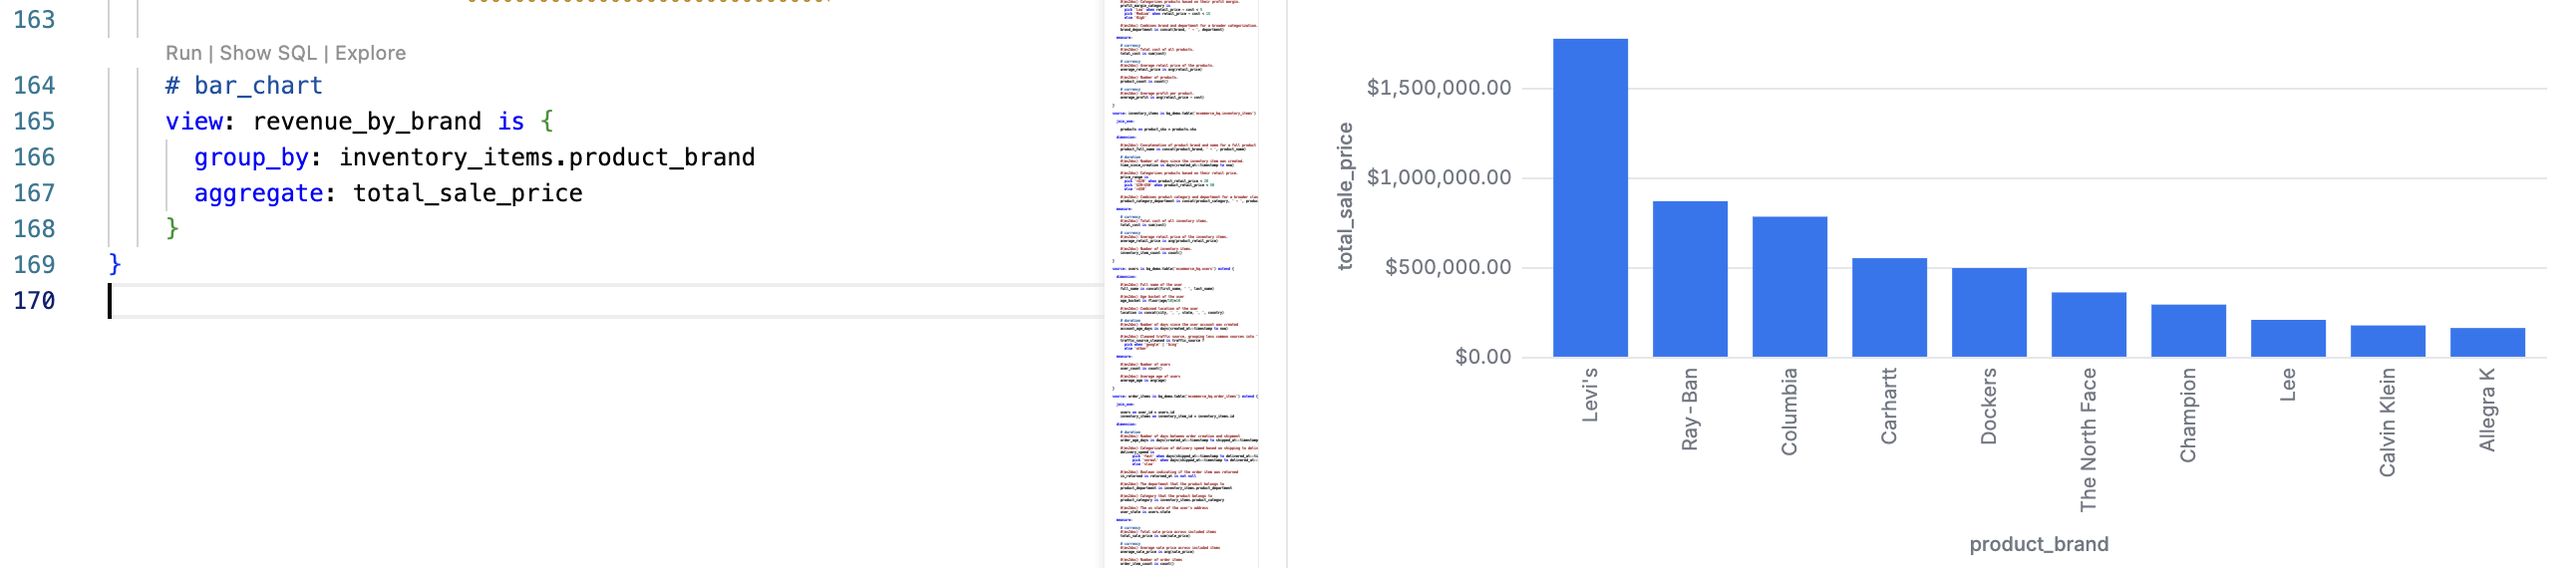
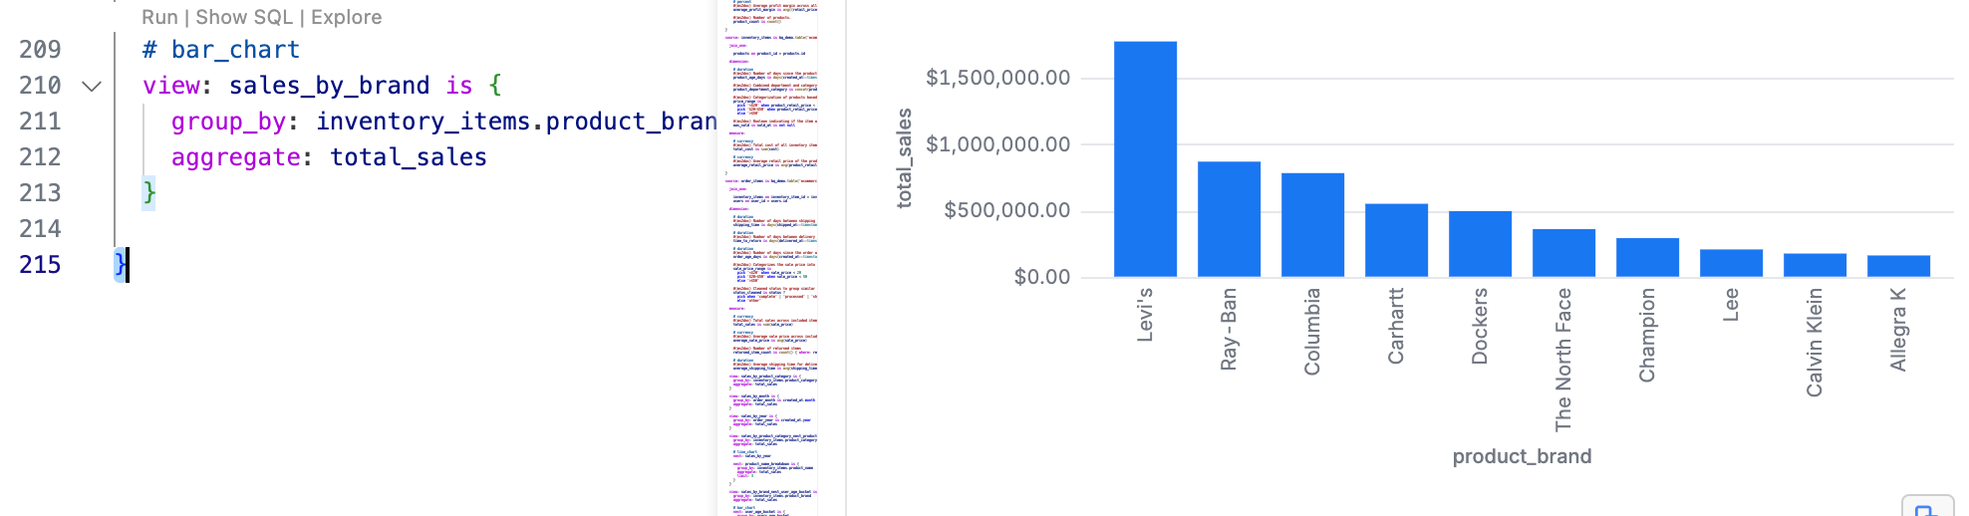
docs: revise and update README.md

diff --git a/README.md b/README.md
@@ -4,11 +4,7 @@ Welcome to **MS2**, your AI-powered, open-source-friendly semantic data platform
 
 At the core of MS2 is [**Malloy**](https://malloydata.dev), an open-source semantic modeling language designed for composability, auditability, and clarity. Malloy models are portable and can run anywhere — and MS2 extends this philosophy with an open, API-driven runtime based on the open-source **Malloy Publisher**. That means no vendor lock-in: you can build locally, host on your own infrastructure, or use our managed service — the choice is yours.
 
-In this Quick Start, you'll follow a familiar and powerful flow: a **data modeler** defines trusted business logic in VS Code using our AI Copilot, and a **data analyst** explores and extends those definitions using Malloy's no-code Explorer query builder. This mirrors the proven modeler → analyst workflow popularized by tools like DBT and Looker — now reimagined for the AI era, and freed from closed systems.
-
-But this is just the beginning.
-
-Once your semantic model is published, the MS2 platform makes it usable everywhere — powering:
+Once a semantic model is published, the MS2 platform makes it usable everywhere, powering a wide range of modern data experiences:
 - **Natural language notebooks** for ad hoc exploration
 - **AI agents** with contextual, trusted data
 - **Embedded data apps** built with our React SDK
@@ -18,21 +14,23 @@ Once your semantic model is published, the MS2 platform makes it usable everywhe
 
 No matter how your team works — in notebooks, apps, dashboards, or chat — MS2 ensures you're always working from the same semantic foundation, built on open standards and ready for the future.
 
+In this Quick Start, we'll focus on a familiar and powerful core workflow: a **data modeler** defines trusted business logic in VS Code using our AI Copilot, and a **data analyst** explores and extends those definitions using Malloy's no-code Explorer query builder. This mirrors the proven modeler → analyst workflow popularized by tools like DBT and Looker — now reimagined for the AI era, and freed from closed systems.
+
 ---
 
 <br>
 
 # Semantic Modeling Workflow
 
-MS2 helps you create, govern, and use semantic models of your business data — quickly and at scale. In this section, you'll:
+MS2 helps you create, govern, and use semantic models of your business data — quickly and at scale. In this section, you'll use MS2's VS Code extension to:
 
-1. Build a semantic model using the MS2 AI Copilot
-2. Analyze data using Malloy notebooks
-3. Publish your models and analyses to the MS2 service
+1. **Build a semantic model** using the MS2 AI Copilot
+2. **Create a view** to validate and iterate on your model
+3. **Publish your work** to the MS2 service for broader use
 
-## Step 1: Build a Semantic Model with AI Copilot
+## Step 0: Get Set Up
 
-At the core of MS2 is the **semantic model**—a governed, versioned interface that defines how your data should be understood and used. Think of it as a **semantic API**: it captures not just structure, but business meaning. You'll use the **MS2 AI Copilot in VS Code** to generate your first model using existing catalog metadata, query logs, and the structure of your data warehouse.
+Before you can build a semantic model, you'll need to set up your environment.
 
 #### Prerequisites
 
@@ -75,6 +73,10 @@ In the `ms2-quick-start` project, you can see you have access to a "bq_demo" con
 
 You can read about organizations > projects > packages structures in the [MS2 Portal Getting Started Guide →](docs/portal.md)
 
+## Step 1: Build a Semantic Model with the MS2 AI Copilot
+
+At the core of MS2 is the **semantic model**—a governed, versioned interface that defines how your data should be understood and used. Think of it as a **semantic API**: it captures not just structure, but business meaning. You'll use the **MS2 AI Copilot in VS Code** to generate your first model using existing catalog metadata, query logs, and the structure of your data warehouse.
+
 #### Generate Your Semantic Model
 
 1. In the file view within the `ecommerce` folder, create a new file: `ecommerce.malloy` (files that end in `.malloy` are Malloy model files)
@@ -83,34 +85,45 @@ You can read about organizations > projects > packages structures in the [MS2 Po
 
 The ecommerce data set has four tables -- `orders_items`, `users`, `products`, and `inventory_items`.  You should see Malloy sources for each of these tables.  The `orders_items` table should have join relationship to the `users` and `inventory_items` tables.  And the `inventory_items` table should have a join relationship to the `products` table.
 
-Each source show have as set of dimensions and measures defined -- and annotations describing the different entities and type information (e.g., currency, percent, duration).  For more information on how Malloy dimensions, measures, joins, views, etc. work, see the [Malloy documentation →](https://malloydata.dev/documentation)
+Each source should have a set of dimensions and measures defined, along with annotations that describe the different entities and type information (e.g., currency, percent, duration). For more information on how Malloy dimensions, measures, joins, views, etc. work, see the [Malloy documentation →](https://malloydata.dev/documentation)
 
-> [!NOTE] 
+> [!NOTE]
 > In this example, we are using the ecommerce data set.  The ecommerce data set is a sample data set that is included with the Malloy samples.  Our copilot only has access to the table schema to generate the model.  In a real-world scenario, you can add more context to the copilot by connecting to or uploading additional metadata such as:
 > - Catalog metadata
 > - Query logs
 > - Business glossary
 
-#### Review & Adjust
+#### Review Your Model
+Your generated model is a strong starting point, but it's important to review it for accuracy and completeness. Specifically, you should:
+- **Confirm the structure**: Ensure the model includes the four tables described above (`orders_items`, `users`, `products`, and `inventory_items`) and that the join relationships are correct.
+- **Check the details**: Verify that the expected dimensions and measures have been defined for each source.
+- **Think ahead**: Consider the types of questions you or your team will want to ask. While there is no single "right" model, a good model is one that can answer your anticipated analytical questions.
 
-Your generated model is a strong starting point — but real-world accuracy matters. You should review the model and make any necessary adjustments.  You can manually edit `.malloy` files, or if you're still learning Malloy, you can use the MS2 extension to help you. For example, highlight a measure or dimensions and press `Ctrl+Cmd+I` to open the prompt text box at the top of the VS code window.  Give our copilot natural language instructions for how to modify the code, e.g., _make the age dimension an age range string such as 10-19_.
+
+#### Adjust Your Model
+Once you've reviewed the model, you'll likely want to make adjustments. You can edit `.malloy` files manually, or you can use the MS2 AI Copilot. The easiest way is to instruct the copilot directly: highlight a block of Malloy code (like a measure or dimension), press `Ctrl+Cmd+I` to open the prompt, and describe the change you want in natural language (e.g., _"make the age dimension an age range string such as 10-19"_).
 
 > [!TIP]
 > The more accurate and complete your semantic model, the better your downstream analysis and AI performance. Describe your data in detail and use the copilot to help you.
 
 ## Step 2: Create a View
 
-Let's create a view to help our analysts explore the orders data.  Inside the orders source below the dimensions and measures, write `view: sales_by_brand ` and wait a second.  The copilot should generate a view with a measure for the total sales by brand similar to the following.  
+Creating views is a powerful way to validate your semantic model and define reusable analyses. For this, we can use the AI Copilot's **autocomplete** feature. As you start typing, the AI will suggest code to complete your thought.
+
+> [!NOTE]
+> If you have other AI copilot extensions enabled (like GitHub Copilot), you may need to disable them to ensure that the MS2 Copilot's autocomplete functionality works correctly.
+
+Let's create a simple view to calculate sales by brand - a good jumping off point for analysts or other downstream consumers of the data. In your `ecommerce.malloy` file, find the `order_items` source. Below the dimensions and measures, start typing `view: sales_by_brand ` and pause. The copilot should suggest a complete view definition with a measure for total sales by brand, similar to the following screenshot:
 
 <img src="docs/screenshots/vs-code-view-results.png" alt="VS Code View Results" width="1000"/>
 
-We can run the query by clicking the "Run" above the view.  You should see the results in the "Results" panel on the right.
+We can run the query by clicking the "Run" above the view. You should see the results in the "Results" panel on the right.
 
-Let's try a little more complext query.  Below the total sales aggregate type something like _nest age group_ and wait a second.  The copilot should genreate a nested view with a measure for the total sales by age group.  When you run this query, you should see sales broken down by brand, and within each brand, sales broken down by age group similar to the following:
+Let's try a more complex query. First, move the `# bar_chart` tag below  `aggregate: total_sales` - this will change the `sales_by_brand` to a table, which is better to display a nested query for each table row.  Below this tag, type something like `nest: age_bucket ` and wait a couple seconds.  The **MS2 AI Copilot** should autogenerate a nested view with a measure for the total sales by age group.  When you run this query, you should see sales broken down by brand, and within each brand, sales broken down by age group similar to the following:
 
 <img src="docs/screenshots/vs-code-view-prompt-2.png" alt="VS Code View Prompt 2" width="1000"/>
 
-While this type of model and viewing might look simple, it's very difficult to create in most modern data tools.  For example, clicking on the SQL in the results panel, you will see the SQL that was used to generate the results.  This SQL is not easy to write (especially for an LLM) and is prone to errors.  And if you want to change the query, you have to write the SQL manually.
+While this type of nested view might look simple, it's very difficult to create in most modern data tools. For example, clicking on the **SQL** tab in the results panel will show the SQL that was used to generate the results. This SQL is not easy to write (especially for an LLM) and is prone to errors. And if you want to change the query, you would have to write and validate the SQL manually.
 
 <img src="docs/screenshots/vs-code-view-sql.png" alt="VS Code View SQL" width="500"/>
 
@@ -160,7 +173,7 @@ Your semantic model is now:
 
 - **Governed** and version controlled
 - **Discoverable** and queryable via APIs and notebooks
-- **Ready** for use by analaysts, embedded apps, dashboards, or AI agents
+- **Ready** for use by analysts, embedded apps, dashboards, or AI agents
 
 ---
 
@@ -168,7 +181,7 @@ Your semantic model is now:
 
 # Explore your Semantic Model
 
-Now that you've published your semantic model to the MS2 platform, let's explore and extend it — using Malloy's **Publisher + Explorer** no-code interface.
+Now that you've published your semantic model to the MS2 platform, it's time to explore and extend it using Malloy's **Publisher + Explorer** no-code interface.
 
 This is where your work as a data modeler becomes a launchpad for analysts, product managers, and other data consumers to ask meaningful questions — without writing a single line of SQL.
 
@@ -180,7 +193,7 @@ This is where your work as a data modeler becomes a launchpad for analysts, prod
 2. You should see a screen with a single package:  
    **`ecommerce`** — the one you just created and pushed.
 
-   <img src="docs/screenshots/publisher-home.png" alt="Explorer Home" width="1000"/>
+   <img src="docs/screenshots/publisher-home.png" alt="Explorer Home" width="500"/>
 
 3. Click the package to open it. You'll land on a screen with three panels: **Package Config**, **Notebooks**, and **Models**.
 
@@ -198,7 +211,7 @@ The Explorer interface has three panels:
 - **Query Panel (Middle)**: Construct and refine your queries.
 - **Results Panel (Right)**: See your live results and inspect the generated Malloy or SQL.
 
-At the top, you'll see your available sources — `order_items`, `users`, `products`, `inventory_items` — created earlier in your Malloy model.  Note that some of the source, dimension, and measure names in this quick start guide may be different from the names in your model.
+At the top, you'll see your available sources — `order_items`, `users`, `products`, `inventory_items` — created earlier in your Malloy model. Note that some of the source, dimension, and measure names in this quick start guide may be different from the names in your model. Select the `order_items` source tab, which is built around the ecommerce dataset's main fact table.
 
 <img src="docs/screenshots/publisher-explorer.png" alt="Explorer Layout" width="1000"/>
 
@@ -207,8 +220,8 @@ Let's walk through a real example.
 
 ## Load and Run a Saved View
 
-1. Click on the `order_items` source tab.
-2. In the **Views** section of the Source Panel, you should see the `revenue_by_brand` view you created in VS Code.
+1. Make sure you are on the `order_items` source tab.
+2. In the **Views** section of the Source Panel, you should see the `sales_by_brand` view you created in VS Code.
 3. Click it. The Query Panel should populate with your saved query.
 4. Click **Run**.
 
@@ -228,16 +241,17 @@ Now let's recreate the same view we created in VS Code — from scratch — usin
    - Open Measures and scroll down to the `total_sales` measure in the `order_items` source.
    - Hover over `total_sales` and select **Add as Aggregate**.
 
-3. The Query Panel now shows these fields.  
+3. The Query Panel now shows these fields.
    Click **Run** — and you'll see revenue by brand in the Results Panel.
 
    <img src="docs/screenshots/publisher-explorer-run-query.png" alt="Explorer Run Query" width="1000"/>
 
 4. Now, click the **+** button at the top of the Main Query panel and select **Add blank nested query**.
 
-5. In the nested query block that appears, click the **+** button inside of thest nested query and:
+5. In the nested query block that appears, click the **+** button inside of the nested query and:
    - Add a Group By and select `user_age_group`
-   - Add an Aggregate and select `total_sales` 
+   - Add an Aggregate and select `total_sales`
+   - Select `Bar` for the chart type
    - Click **Run**.
 
    <img src="docs/screenshots/publisher-explorer-nested-query.png" alt="Explorer Run Nested Query" width="1000"/>
@@ -255,6 +269,7 @@ Let's pause and appreciate what just happened:
 - Then, using that same model, you **recreated the same analysis in Explorer** with a few clicks — enabling anyone on your team to generate complex insights from a trusted, governed model.
 
 This is the power of MS2:
+
 - Developers and analysts working together, on the same foundation.
 - Code and no-code experiences that reinforce each other.
 - A single semantic model, used across tools and personas — AI, dashboards, apps, and more.
@@ -268,6 +283,7 @@ This is the power of MS2:
 While this Quick Start focused on the core workflow of building and exploring a semantic model, the MS2 platform is a globally distributed system designed to scale with your organization — across environments, teams, and regions.
 
 This gives you:
+
 - **100× the scale**, **10× the availability**, and **1/10th the cost** compared to legacy BI and state of the art semantic layers
 - **Enterprise-grade controls** like governed metrics, fine-grained ACLs, versioning, audit logs, and usage telemetry
 
